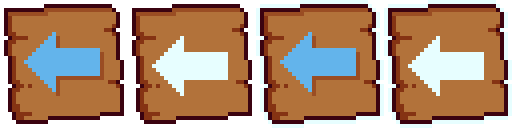
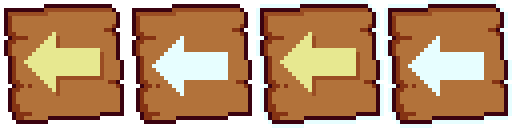
new foreground and background colors #e7e890 / #9a4d23

Changed region(s): [[0.5312, 0.25, 0.7188, 0.7188], [0.0312, 0.25, 0.2188, 0.7188]]

diff --git a/screen_manager/UI/MainScreen.cpp b/screen_manager/UI/MainScreen.cpp
@@ -349,7 +349,7 @@ void SCREEN_MainScreen::CreateViews() {
         
         if (gTheme == THEME_RETRO) 
         {
-            gamesPathView->SetTextColor(0xFFde51e0);
+            gamesPathView->SetTextColor(RETRO_COLOR_FONT_FOREGROUND);
             gamesPathView->SetShadow(true);
         }
         topBar->Add(gamesPathViewFrame);
@@ -384,7 +384,7 @@ void SCREEN_MainScreen::CreateViews() {
                                     true, new LinearLayoutParams(gFileBrowserWidth, 64.0f));
         if (gTheme == THEME_RETRO) 
         {
-            noController->SetTextColor(0xFFde51e0);
+            noController->SetTextColor(RETRO_COLOR_FONT_FOREGROUND);
             noController->SetShadow(true);
         }
         gameLauncherMainFrame->Add(noController);
@@ -648,7 +648,7 @@ void SCREEN_GameButton::Draw(SCREEN_UIContext &dc) {
 		}
 		dc.Draw()->DrawImage(image, bounds_.x + 72, bounds_.centerY(), 0.88f, 0xFFFFFFFF, ALIGN_CENTER);
         if (gTheme == THEME_RETRO)
-            dc.DrawText(text.c_str(), bounds_.x + 152, bounds_.centerY()+2, 0xFF000000, ALIGN_VCENTER);
+            dc.DrawText(text.c_str(), bounds_.x + 152, bounds_.centerY()+2, RETRO_COLOR_FONT_BACKGROUND, ALIGN_VCENTER);
 		dc.DrawText(text.c_str(), bounds_.x + 150, bounds_.centerY(), style.fgColor, ALIGN_VCENTER);
 
 		if (scissor) {
@@ -741,7 +741,7 @@ void SCREEN_DirButtonMain::Draw(SCREEN_UIContext &dc) {
 		}
 		dc.Draw()->DrawImage(image, bounds_.x + 72, bounds_.centerY(), 0.88f, 0xFFFFFFFF, ALIGN_CENTER);
         if (gTheme == THEME_RETRO)
-          dc.DrawText(text.c_str(), bounds_.x + 152, bounds_.centerY()+2, 0xFF000000, ALIGN_VCENTER);
+          dc.DrawText(text.c_str(), bounds_.x + 152, bounds_.centerY()+2, RETRO_COLOR_FONT_BACKGROUND, ALIGN_VCENTER);
 		dc.DrawText(text.c_str(), bounds_.x + 150, bounds_.centerY(), style.fgColor, ALIGN_VCENTER);
 
 		if (scissor) {

diff --git a/screen_manager/UI/NativeApp.cpp b/screen_manager/UI/NativeApp.cpp
@@ -179,20 +179,20 @@ void SCREEN_UIThemeInit() {
         ui_theme.uiFontSmall = SCREEN_UI::FontStyle(FontID("RETRO24"), "", 13); // used for file browser
         ui_theme.uiFontSmaller = SCREEN_UI::FontStyle(FontID("RETRO24"), "", 10);
     
-        ui_theme.itemStyle = MakeStyle(RETRO_COLOR_FONT_NOT_FOCUSED, 0x80000000);
+        ui_theme.itemStyle = MakeStyle(RETRO_COLOR_FONT_FOREGROUND, 0x80000000);
         ui_theme.itemFocusedStyle = MakeStyle(0xFFFFFFFF, 0xA0000000); // active icons
         ui_theme.itemDownStyle = MakeStyle(0xFFFFFFFF, 0xB0000000);
         ui_theme.itemDisabledStyle = MakeStyle(0xffEEEEEE, 0x55E0D4AF);
-        ui_theme.itemHighlightedStyle = MakeStyle(0xFFFFFFFF, 0x55BDBB39);
+        ui_theme.itemHighlightedStyle = MakeStyle(0xFFFFFFFF, 0x55ffffff); //
 
-        ui_theme.buttonStyle = MakeStyle(RETRO_COLOR_FONT_NOT_FOCUSED, 0x70000000); // inactive button
-        ui_theme.buttonFocusedStyle = MakeStyle(RETRO_COLOR_FONT_FOCUSED, 0xA0000000); // active button
+        ui_theme.buttonStyle = MakeStyle(RETRO_COLOR_FONT_FOREGROUND, 0x70000000); // inactive button
+        ui_theme.buttonFocusedStyle = MakeStyle(RETRO_COLOR_FONT_FOREGROUND, 0xA0000000); // active button
         ui_theme.buttonDownStyle = MakeStyle(0xFFFFFFFF, 0xFFBD9939);
         ui_theme.buttonDisabledStyle = MakeStyle(0x80EEEEEE, 0x55E0D4AF);
         ui_theme.buttonHighlightedStyle = MakeStyle(0xFFFFFFFF, 0x55BDBB39);
 
-        ui_theme.headerStyle.fgColor = 0xFFFFFFFF;
-        ui_theme.infoStyle = MakeStyle(RETRO_COLOR_FONT_NOT_FOCUSED, 0x00000000U);
+        ui_theme.headerStyle.fgColor = RETRO_COLOR_FONT_FOREGROUND;
+        ui_theme.infoStyle = MakeStyle(RETRO_COLOR_FONT_FOREGROUND, 0x00000000U);
 
         ui_theme.popupTitle.fgColor = 0xFFE3BE59;
         ui_theme.popupStyle = MakeStyle(0xFFFFFFFF, 0xFF303030);

diff --git a/screen_manager/Common/UI/View.cpp b/screen_manager/Common/UI/View.cpp
@@ -602,7 +602,7 @@ void Choice::Draw(SCREEN_UIContext &dc) {
         }
         
         if (gTheme == THEME_RETRO)
-          dc.DrawTextRect(text_.c_str(), bounds_.Offset(2.0f+offset_down_x, 2.0f+offset_down_y)  , 0xFF000000, ALIGN_CENTER | FLAG_WRAP_TEXT);
+          dc.DrawTextRect(text_.c_str(), bounds_.Offset(2.0f+offset_down_x, 2.0f+offset_down_y)  , RETRO_COLOR_FONT_BACKGROUND, ALIGN_CENTER | FLAG_WRAP_TEXT);
           
         dc.DrawTextRect(text_.c_str(), bounds_.Offset(offset_down_x, offset_down_y), style.fgColor, ALIGN_CENTER | FLAG_WRAP_TEXT);
         
@@ -614,7 +614,7 @@ void Choice::Draw(SCREEN_UIContext &dc) {
         
         Bounds textBounds(bounds_.x + paddingX + textPadding_.left, bounds_.y, availWidth, bounds_.h);
         if (gTheme == THEME_RETRO)
-          dc.DrawTextRect(text_.c_str(), textBounds.Offset(2.0f, 2.0f)  , 0xFF000000, ALIGN_VCENTER | FLAG_WRAP_TEXT);
+          dc.DrawTextRect(text_.c_str(), textBounds.Offset(2.0f, 2.0f)  , RETRO_COLOR_FONT_BACKGROUND, ALIGN_VCENTER | FLAG_WRAP_TEXT);
         dc.DrawTextRect(text_.c_str(), textBounds, style.fgColor, ALIGN_VCENTER | FLAG_WRAP_TEXT);
     }
     dc.SetFontScale(1.0f, 1.0f);
@@ -921,7 +921,7 @@ void TextView::Draw(SCREEN_UIContext &dc) {
     
 	dc.SetFontStyle(big_ ? dc.theme->uiFontSmall : dc.theme->uiFontSmaller);
 	if (shadow_) {
-		uint32_t shadowColor = 0xFF000000;
+		uint32_t shadowColor = RETRO_COLOR_FONT_BACKGROUND;
 		dc.DrawTextRect(text_.c_str(), bounds_.Offset(2.0f, 2.0f), shadowColor, textAlign_);
 	}
 	dc.DrawTextRect(text_.c_str(), bounds_, textColor, textAlign_);

diff --git a/screen_manager/UI/SettingsScreen.cpp b/screen_manager/UI/SettingsScreen.cpp
@@ -1145,10 +1145,10 @@ void SCREEN_SettingsScreen::CreateViews() {
     ImageID icon, icon_active, icon_depressed, icon_depressed_inactive;
     if (gTheme == THEME_RETRO)
     { 
-        icon = ImageID("I_TAB_R", BUTTON_STATE_NOT_FOCUSED); 
-        icon_active = ImageID("I_TAB_R", BUTTON_STATE_FOCUSED); 
-        icon_depressed = ImageID("I_TAB_R",BUTTON_STATE_FOCUSED_DEPRESSED);
-        icon_depressed_inactive = ImageID("I_TAB_R",BUTTON_STATE_NOT_FOCUSED_DEPRESSED);
+        icon = ImageID("I_TAB_R", NO_ICON_BUTTON_STATE_NOT_FOCUSED); 
+        icon_active = ImageID("I_TAB_R", NO_ICON_BUTTON_STATE_FOCUSED); 
+        icon_depressed = ImageID("I_TAB_R",NO_ICON_BUTTON_STATE_FOCUSED);
+        icon_depressed_inactive = ImageID("I_TAB_R",NO_ICON_BUTTON_STATE_NOT_FOCUSED);
         tabHolder->SetIcon(icon,icon_active,icon_depressed,icon_depressed_inactive);
     }
 
@@ -1317,9 +1317,9 @@ void SCREEN_SettingsScreen::CreateViews() {
                                     true, new LinearLayoutParams(dp_xres-leftMargin-leftMargin-verticalSpace-128.0f-20, 30));
         if (gTheme == THEME_RETRO) 
         {
-            text_setup1->SetTextColor(0xFFde51e0);
+            text_setup1->SetTextColor(RETRO_COLOR_FONT_FOREGROUND);
             text_setup1->SetShadow(true);
-            text_setup1b->SetTextColor(0xFFde51e0);
+            text_setup1b->SetTextColor(RETRO_COLOR_FONT_FOREGROUND);
             text_setup1b->SetShadow(true);
         }
         vt->Add(text_setup1);

diff --git a/screen_manager/Common/Render/TextureAtlas.cpp b/screen_manager/Common/Render/TextureAtlas.cpp
@@ -125,7 +125,7 @@ bool SCREEN_Atlas::Load(const uint8_t *data, size_t data_size) {
     registerSpriteSheet("I_HOME_R", 4); // sprite sheet with four frames
     registerSpriteSheet("I_LINES_R", 4); // sprite sheet with four frames
     registerSpriteSheet("I_OFF_R", 4); // sprite sheet with four frames
-    registerSpriteSheet("I_TAB_R", 4); // sprite sheet with four frames
+    registerSpriteSheet("I_TAB_R", 2); // sprite sheet with four frames
     
 	return true;
 }

diff --git a/include/global.h b/include/global.h
@@ -31,6 +31,8 @@ enum SCREEN_UI_theme {
 enum SCREEN_UI_colors {           //0xAABBGGRR
     RETRO_COLOR_FONT_FOCUSED      = 0xFFFFFFFF,
     RETRO_COLOR_FONT_NOT_FOCUSED  = 0xFFDE51E0,
+    RETRO_COLOR_FONT_FOREGROUND   = 0xFF90e8e7,
+    RETRO_COLOR_FONT_BACKGROUND   = 0xFF234d9a,
     RETRO_COLOR_BLUE              = 0xFFFF0000,
     RETRO_COLOR_GREEN             = 0xFF00FF00,
     RETRO_COLOR_RED               = 0xFF0000FF,

diff --git a/screen_manager/Common/Render/Sprite_Sheet.h b/screen_manager/Common/Render/Sprite_Sheet.h
@@ -1,6 +1,11 @@
 #pragma once
 
-enum ButtonStates {
+enum ButtonStatesTwoStates {
+    NO_ICON_BUTTON_STATE_NOT_FOCUSED = 0,
+    NO_ICON_BUTTON_STATE_FOCUSED,
+};
+
+enum ButtonStatesFourStates {
     BUTTON_STATE_NOT_FOCUSED = 0,
     BUTTON_STATE_NOT_FOCUSED_DEPRESSED,
     BUTTON_STATE_FOCUSED,
